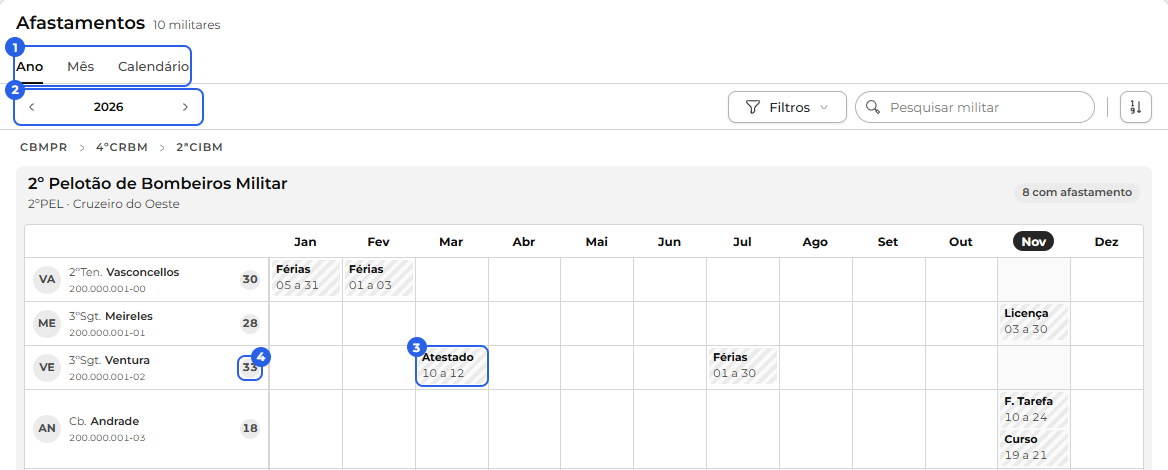
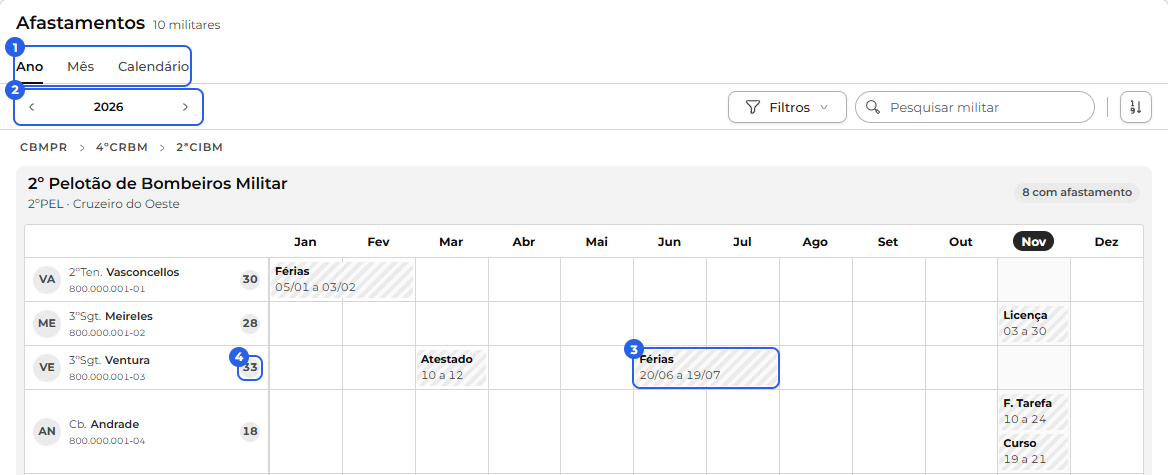
1

diff --git a/programador.html b/programador.html
@@ -2440,7 +2440,7 @@
                 <li><strong>Militares:</strong> linhas = militares, colunas = os dias do mês todo (do dia 1º ao último, desde 15/11/2026; as setas andam de mês em mês). Cada unidade escolhida é um bloco cinza com a linha-título em cima (nome completo + cidade, no cinza) e os militares numa tabela branca dentro; o título recolhe e abre os militares (por antiguidade). A linha do militar tem o avatar de iniciais (<code>--fundo-medio</code> + <code>--texto-suave</code>) + graduação + nome de guerra e, abaixo, o CPF (9px, a exceção da microetiqueta). Coluna do militar fixa à esquerda (244px, com o selo dos dias), cabeçalho dos dias fixo (hoje num círculo escuro, fim de semana sombreado). <strong>Sombra da coluna parada</strong> (15/11/2026): com a grade rolada para o lado, uma faixa de 16px (<code>::after</code>) colada à direita do canto, de cada linha do militar e do rótulo dos totais (o título da unidade fica sem, porque o nome dele passa da coluna), com <code>--sombra-coluna</code>; aparece com a classe <code>.escala-mil--rolada</code> (opacidade em 0.15s ease-out, some em 0.1s; parada no <code>prefers-reduced-motion</code>). Cada dia = <code>minmax(72px, 1fr)</code> (15/11/2026; antes, 60px), a largura do selo com o ícone e o horário numa linha só, dentro da célula; as colunas não têm número fixo (<code>grid-auto-columns</code> + <code>grid-auto-flow: column</code>), e o que não cabe rola para o lado dentro da grade. Camadas internas de 1 a 6. No celular, a coluna do militar tem 136px (o CPF numa linha só), sem o avatar, e cada dia, o mesmo <code>minmax(72px, 1fr)</code> do computador: os dias rolam para o lado, e o nome fica.</li>
                 <li>Célula do Militares: de serviço = chip de destaque (<code>.escala-mil-servico</code>, <code>--fundo-contraste</code> + <code>--texto-invertido</code>) com o ícone da origem (<code>.escala-mil-servico-origem</code>, 11px, em todo horário desde 15/11/2026: o mesmo do Mês, pela origem de cada horário; no trocado, o da troca; na página Sobreaviso, o telefone <code>.escala-mil-servico-sobreaviso</code> no mesmo lugar) + hora de início + ícone de seta (<code>icone-seta-direita-longa</code>) + fim, sem "h" (vários empilhados na disponibilidade quebrada), com recuo <code>0 4px</code> e vão de 2px; os números descem 1px (<code>margin-top: 2px</code>), e a tinta deles fica no meio do selo, na linha da seta e do ícone; afastado = chip listrado "FÉR" (<code>.escala-mil-afast</code>, <code>title</code> "Férias até DD/MM"); o dia de autorização de viagem (22/11/2026) = o mesmo chip, "VIA", sem as faixas e com a borda fina por dentro (<code>.escala-mil-afast--viagem</code>: <code>box-shadow: inset 0 0 0 1px var(--borda-forte)</code>; molde <code>#tpl-escala-mil-viagem</code>, só com o filtro dela); folga = vazia. Ao pé de cada unidade, a linha "Efetivo de serviço" (quantos de serviço por dia). A busca no canto direito filtra por nome e graduação (sem acento), esconde quem não casa e a unidade sem ninguém, revela as recolhidas e esconde os totais durante a busca; sem resultado, "Nenhum militar encontrado.". A Legenda do Militares mostra as amostras já com o ícone (Serviço, Extrajornada e Trocado) e o grupo <strong>Origem do serviço</strong>, o mesmo do painel do dia.</li>
                 <li><strong>Selo dos dias do Militares</strong> (15/11/2026; <code>.escala-mil-pessoa-dias</code>, números pelo <code>escalas-militares-dias.js</code>): à direita do nome, encostado (<code>margin-left: auto</code>), um círculo de 20px (<code>border-radius: 50%</code>, o mesmo do número do dia do cabeçalho), fundo <code>--fundo-medio</code> e número <code>--texto-suave</code> (o cinza do avatar, para não competir com os horários escuros), 11px em negrito com números da mesma largura; cabe "88" e mostra o 0. Diz em quantos dias do mês o militar tem um horário à vista que não é riscado. O botão Filtros vale nesta aba (escondido no Sobreaviso e nos Estágios): os horários e os afastamentos das situações desmarcadas somem, e o selo e a linha "Efetivo de serviço" contam só o que ficou. Na Legenda da aba, o grupo "Militar" usa a mesma classe na amostra.</li>
-                <li><strong>A grade dos Afastamentos</strong> (16/11/2026; <code>css/afastamentos.css</code>, por cima das peças do Militares, <code>escalas-militares.css</code>): a mesma linha do militar (coluna de 244px com as iniciais, o grau, o nome, o CPF e o selo dos dias), que abre o painel dele (<code>.afastamentos-pessoa</code>: hover <code>--fundo-suave</code>, escolhida <code>--fundo-medio</code>, achada pela busca em <code>--fundo-contraste</code> com o texto <code>--texto-invertido</code>). <strong>Ano:</strong> 12 colunas de no mínimo 72px; o cabeçalho preso abaixo do título do bloco; o nome do mês é um botão (<code>.afastamentos-mes-nome</code>, 12px, peso 700, <code>--raio-total</code>, hover <code>--fundo-medio</code>), o de hoje no escuro (<code>--fundo-contraste</code> e <code>--texto-invertido</code>), com a coluna em <code>--fundo-suave</code>. A célula (<code>.afastamentos-celula</code>, no mínimo 44px, 2px entre os selos) empilha os selos e só é clicável para quem administra o militar (<code>--clicavel</code>). O selo (<code>.afastamentos-selo</code>) é o listrado do afastado (faixas de 4px em <code>--fundo-suave</code> e <code>--fundo-medio</code>, a -45°), <code>--raio-pequeno</code>, com o nome (11px, peso 700, <code>--texto-forte</code>, corta com reticências) e os dias (11px, <code>--texto-suave</code>, números tabulares); o que não foi salvo leva a canaleta (<code>inset 2px</code> em <code>--texto-forte</code>). <strong>A autorização de viagem</strong> (22/11/2026; <code>.afastamentos-selo--viagem</code>): o mesmo selo <strong>sem o listrado</strong>, com a borda fina por dentro (<code>box-shadow: inset 0 0 0 1px var(--borda-forte)</code>; com a canaleta, as duas sombras juntas) e o ícone do mapa antes do nome (<code>.afastamentos-selo-icone</code>, 10px, <code>margin-right</code> 4px, um pixel abaixo da linha); no calendário, a linha <code>.linha-escalado--viagem</code> com o ícone à mostra (a do afastado esconde os ícones). Os <strong>Destinos</strong> (molde <code>#tpl-afastamento-destinos</code>, na caixa 2 e no painel): a lista <code>.afastamento-destinos</code> (coluna, gap 8px), cada destino numa linha <code>.afastamento-destino</code> (o campo <code>.campo-entrada</code> que estica e, ao lado, o X <code>.botao-discreto</code> com <code>icone-fechar</code> 14px, o mesmo das partes do horário; a lixeira fica só no alto, para a autorização inteira) e o <code>.botao</code> Adicionar destino que não estica (<code>.afastamento-destinos-adicionar</code>, 8px acima); sem destino, a borda vermelha do <code>.campo--erro</code> e a nota de sempre. <strong>Mês</strong> (<code>.afastamentos-grade--mes</code>): os dias em colunas de no mínimo 28px (o mês inteiro cabe a 1366 sem rolar), o dia do cabeçalho com a sigla em cima do número (molde <code>#tpl-escala-mil-dia</code>: hoje no círculo escuro, fim de semana sombreado). A barra (<code>.afastamentos-barra</code>, o mesmo selo) fica por cima das células, em <code>position: absolute</code> na grade da linha, da coluna do primeiro ao último dia (<code>grid-column: var(--barra-coluna) / span var(--barra-dias)</code>), com 36px de altura e 2px de folga de cada lado; a coluna do militar passa por cima dela ao rolar. Dois que se cruzam vão em faixas de 40px (<code>--barra-faixa</code>), e a linha cresce uma faixa por afastamento (<code>--faixas</code>); as quatro são dado da tela. A barra clicável ganha o contorno de 1px <code>--foco</code> no hover; a de 1 ou 2 dias (<code>--curta</code>) esconde o nome e os dias, que ficam na dica. <strong>Calendário:</strong> o <code>geral-calendario-mes</code> da Escala com <code>unidadesPorDia</code>; em cada dia, o bloquinho da unidade (<code>.escala-calendario-unidade.afastamentos-bloco</code>; para quem não administra, <code>--leitura</code>, sem o hover) com a linha de cada afastado (<code>.afastamentos-linha</code>, a <code>.linha-escalado--afastamento</code> da Escala com 20px): sem riscar e sem os ícones, o nome em <code>--texto</code> e o nome do afastamento à direita em <code>--texto-forte</code>; hover com o contorno de 1px <code>--foco</code>; a achada pela busca no escuro da Escala, sem o listrado; a que não foi salva com a canaleta.</li>
+                <li><strong>A grade dos Afastamentos</strong> (16/11/2026; a barra do Ano e a borda tracejada desde 22/11/2026; <code>css/afastamentos.css</code>, por cima das peças do Militares, <code>escalas-militares.css</code>): a mesma linha do militar (coluna de 244px com as iniciais, o grau, o nome, o CPF e o selo dos dias), que abre o painel dele (<code>.afastamentos-pessoa</code>: hover <code>--fundo-suave</code>, escolhida <code>--fundo-medio</code>, achada pela busca em <code>--fundo-contraste</code> com o texto <code>--texto-invertido</code>). <strong>Ano:</strong> 12 colunas de no mínimo 72px; o cabeçalho preso abaixo do título do bloco; o nome do mês é um botão (<code>.afastamentos-mes-nome</code>, 12px, peso 700, <code>--raio-total</code>, hover <code>--fundo-medio</code>), o de hoje no escuro (<code>--fundo-contraste</code> e <code>--texto-invertido</code>), com a coluna em <code>--fundo-suave</code>. A célula (<code>.afastamentos-celula</code>, 40px por faixa mais 4px, sem folga por dentro) fica embaixo das barras e só é clicável para quem administra o militar (<code>--clicavel</code>). Cada afastamento é uma <strong>barra</strong> (a mesma do Mês, abaixo) do primeiro ao último mês que ele toca no ano, na linha <code>.afastamentos-linha-ano</code>, com o nome e as datas inteiras (<code>textoDatas</code>: só a data de outro ano leva o ano, "23/11 a 01/01/2027"); o que fica todo num mês só mostra os dias, como no Mês ("10 a 12"). O selo (<code>.afastamentos-selo</code>) é o listrado do afastado (faixas de 4px em <code>--fundo-suave</code> e <code>--fundo-medio</code>, a -45°), <code>--raio-pequeno</code>, com o nome (11px, peso 700, <code>--texto-forte</code>, corta com reticências) e as datas (11px, <code>--texto-suave</code>, números tabulares; as que não cabem, como a de um mês só que vem de outro ano, cortam com reticências e ficam inteiras na dica); o que não foi salvo leva a <strong>borda tracejada</strong> da Escala, por dentro (<code>outline: 2px dashed var(--texto-forte)</code>, <code>outline-offset: -2px</code>; nunca no <code>::after</code>, que é o da dica), menos no hover e com a caixa aberta nele, que têm a borda deles. <strong>A autorização de viagem</strong> (22/11/2026; <code>.afastamentos-selo--viagem</code>): o mesmo selo <strong>sem o listrado</strong>, com a borda fina por dentro (<code>box-shadow: inset 0 0 0 1px var(--borda-forte)</code>; não salva, a borda fina e a tracejada juntas) e o ícone do mapa antes do nome (<code>.afastamentos-selo-icone</code>, 10px, <code>margin-right</code> 4px, um pixel abaixo da linha); no calendário, a linha <code>.linha-escalado--viagem</code> com o ícone à mostra (a do afastado esconde os ícones). Os <strong>Destinos</strong> (molde <code>#tpl-afastamento-destinos</code>, na caixa 2 e no painel): a lista <code>.afastamento-destinos</code> (coluna, gap 8px), cada destino numa linha <code>.afastamento-destino</code> (o campo <code>.campo-entrada</code> que estica e, ao lado, o X <code>.botao-discreto</code> com <code>icone-fechar</code> 14px, o mesmo das partes do horário; a lixeira fica só no alto, para a autorização inteira) e o <code>.botao</code> Adicionar destino que não estica (<code>.afastamento-destinos-adicionar</code>, 8px acima); sem destino, a borda vermelha do <code>.campo--erro</code> e a nota de sempre. <strong>Mês</strong> (<code>.afastamentos-grade--mes</code>): os dias em colunas de no mínimo 28px (o mês inteiro cabe a 1366 sem rolar), o dia do cabeçalho com a sigla em cima do número (molde <code>#tpl-escala-mil-dia</code>: hoje no círculo escuro, fim de semana sombreado). A barra (<code>.afastamentos-barra</code>, o mesmo selo, no Ano e no Mês, pelo <code>desenharBarras</code>; a linha <code>.afastamentos-linha-ano</code> ou <code>-mes</code> com <code>position: relative</code>) fica por cima das células, em <code>position: absolute</code> na grade da linha, da coluna do primeiro ao último dia ou mês (<code>grid-column: var(--barra-coluna) / span var(--barra-dias)</code>; no Ano, <code>--barra-dias</code> conta os meses), com 36px de altura e 2px de folga de cada lado; a coluna do militar passa por cima dela ao rolar. Dois que se cruzam (no Ano, os que tocam o mesmo mês) vão em faixas de 40px (<code>--barra-faixa</code>), e a linha cresce uma faixa por afastamento (<code>--faixas</code>); as quatro são dado da tela. A barra clicável ganha o contorno de 1px <code>--foco</code> no hover; no Mês, a de 1 ou 2 dias (<code>--curta</code>) esconde o nome e os dias, que ficam na dica. <strong>Calendário:</strong> o <code>geral-calendario-mes</code> da Escala com <code>unidadesPorDia</code>; em cada dia, o bloquinho da unidade (<code>.escala-calendario-unidade.afastamentos-bloco</code>; para quem não administra, <code>--leitura</code>, sem o hover) com a linha de cada afastado (<code>.afastamentos-linha</code>, a <code>.linha-escalado--afastamento</code> da Escala com 20px): sem riscar e sem os ícones, o nome em <code>--texto</code> e o nome do afastamento à direita em <code>--texto-forte</code>; hover com o contorno de 1px <code>--foco</code>; a achada pela busca no escuro da Escala, sem o listrado; a que não foi salva com a borda tracejada (a mesma do selo, fora do hover e da caixa aberta).</li>
                 <li><strong>Os grupos da célula</strong> (15/11/2026; <code>escalas-celula-grupos.js</code>, CSS em <code>escalas-mes.css</code>; molde <code>#tpl-escala-grupo</code>): cada grupo (Guarnição · Trocas · Pontual · Remanejados · Extrajornada · Estágio · Sobreaviso · Fora da escala) é uma <code>.escala-grupo</code> (<code>flex</code> em coluna, <code>data-grupo</code> com a chave) com as linhas da grade de sempre. Em cima de cada grupo, a <code>.escala-grupo-linha</code>: uma faixa de 9px (<code>padding 4px 0</code>) com o traço <code>1px dashed var(--borda)</code> no meio, que leva a dica do grupo de baixo (<code>data-dica</code>, os nomes em <code>mensagens.escala.grupoCelula</code>) e cujo clique é do dia, como o espaço vazio da célula. Só aparece depois de um grupo à vista (<code>.escala-grupo:has(...) ~ .escala-grupo &gt; .escala-grupo-linha</code>); o grupo sem linha à vista some (<code>:not(:has(...))</code>), também pelo filtro. <strong>O Fora da escala</strong> (<code>escalas-celula-fora.js</code>): o <code>icone-remover-usuario</code> no lugar do ícone da origem; o nome em <code>--erro</code> (<code>.linha-escalado--fora-vermelho</code>, devia estar na escala) ou em <code>--alerta</code> (<code>.linha-escalado--fora-aviso</code>, voltou de um afastamento há até 5 dias), os dois com "Fora da escala" no lugar do horário (o vermelho com a entrada marcada, "Entra em DD/MM"); para quem administra o dia, o clique no nome abre a caixa flutuante com Adicionar neste dia, Adicionar à guarnição e Abrir o painel do dia. No PDF das grades (<code>escalas-impressao-grade-celula.js</code>), a mesma linha tracejada (0,4pt) entre os grupos.</li>
                 <li><strong>O título de um posto na célula</strong> (19/11/2026; <code>.escala-mes-posto</code> em <code>escalas-mes.css</code>, molde <code>#tpl-escala-mes-posto</code> do <code>index.html</code>, montado pelo <code>RosterWork.escalasCelulaGrupos.tituloPosto</code>): o nome do posto em 11px, peso 600, caixa alta, <code>letter-spacing 0.44px</code>, <code>--texto-suave</code>, <code>padding 2px 0 2px 2px</code>, numa linha só, com as linhas do posto embaixo. Do segundo título em diante (<code>.escala-mes-posto ~ .escala-mes-posto</code>), a linha tracejada dos grupos em cima (<code>::before</code>, <code>1px dashed var(--borda)</code>, <code>margin 4px 0</code>) e o <code>padding-top</code> zerado. O Sem posto (N) com <code>.escala-mes-posto--sem</code>, em <code>--alerta</code>, por último. Usado na Op. Verão (os guarda-vidas por posto) e nos Estágios (os estagiários por viatura ou instalação); a Escala não tem.</li>
                 <li><strong>A dica do militar na grade</strong> (12/11/2026; <code>escalas-celula-dica.js</code>): o <code>data-dica</code> comum (<code>geral-dica</code>) no nome, com uma frase por linha (o porquê da linha na escala); a dica de várias linhas mede a própria altura para escolher se abre em cima ou embaixo. <strong>O motivo da folga</strong> (molde <code>#tpl-escala-folga-motivo</code>): o <code>.campo</code> comum, com o <code>.campo-rotulo</code> "Motivo (opcional)" e o <code>.campo-entrada</code> (<code>maxlength 120</code>), embaixo das respostas do banco de horas, com <code>padding-top 4px</code> (<code>.escala-folga-motivo</code>, em <code>escalas-painel-edicao.css</code>).</li>
@@ -2817,7 +2817,7 @@
               <span class="rotulo-secao">Afastamentos › A caixa e o painel do militar</span>
               <ul class="guia-regras">
                 <li><strong>A caixa</strong> (16/11/2026; <code>afastamentos-celula.js</code>): a <code>RosterWork.caixaFlutuante</code> da Escala (<code>escalas-celula-editar.css</code>), ao lado do que foi clicado; no celular, a folha de baixo. O menu (<code>.afastamentos-menu</code>, no mínimo 220px) usa os <code>.dropdown-item</code> com ícone; os que abrem a caixa 2 levam a seta à direita, o Remover é o <code>.dropdown-item--perigo</code> e o Abrir o painel do militar fica depois do <code>.dropdown-divisor</code>, com o ícone do painel à direita. O travado (<code>.afastamentos-menu--travado</code>, 256px) traz a frase e o Abrir o painel. A caixa do nome do mês tem o título do mês (<code>.afastamentos-menu-titulo</code>; no celular some, porque a folha já tem título). A caixa 2 (<code>.afastamentos-cartao</code>) traz as perguntas (ver Data e horário).</li>
-                <li><strong>O painel do militar</strong> (<code>afastamentos-painel.js</code>): o <code>geral-painel</code> sem abas; o título é o posto e o nome, com a unidade no <code>tituloExtra</code> e o nome completo embaixo; o ano no subcabeçalho (o mesmo seletor do ano da barra). O Resumo do ano é o bloco de leitura da ficha (<code>.grupo-caixa</code> com <code>.ficha-linha</code>). Para quem administra o militar ativo, cada afastamento é uma caixa (<code>#tpl-ficha-afastamento</code>: <code>.grupo-caixa.ficha-periodo</code>, a situação no <code>.rotulo-secao</code> e a lixeira <code>.botao-discreto</code> à direita; as perguntas em <code>.ficha-afastamento-campos</code>, 8px entre elas; a que não foi salva com a canaleta, <code>.ficha-periodo--mudou</code>), e o Adicionar afastamento é um botão com texto no fim (<code>.ficha-acoes-fim</code>, não estica). Quem só lê vê uma <code>.ficha-linha</code> por afastamento.</li>
+                <li><strong>O painel do militar</strong> (<code>afastamentos-painel.js</code>): o <code>geral-painel</code> sem abas; o título é o posto e o nome, com a unidade no <code>tituloExtra</code> e o nome completo embaixo; o ano no subcabeçalho (o mesmo seletor do ano da barra). O Resumo do ano é o bloco de leitura da ficha (<code>.grupo-caixa</code> com <code>.ficha-linha</code>). Para quem administra o militar ativo, cada afastamento é uma caixa (<code>#tpl-ficha-afastamento</code>: <code>.grupo-caixa.ficha-periodo</code>, a situação no <code>.rotulo-secao</code> e a lixeira <code>.botao-discreto</code> à direita; as perguntas em <code>.ficha-afastamento-campos</code>, 8px entre elas; a que não foi salva com a borda tracejada por dentro, sempre à vista, <code>.ficha-periodo--mudou</code>: <code>outline: 2px dashed var(--texto-forte)</code>, <code>outline-offset: -2px</code>), e o Adicionar afastamento é um botão com texto no fim (<code>.ficha-acoes-fim</code>, não estica). Quem só lê vê uma <code>.ficha-linha</code> por afastamento.</li>
               </ul>
             </div>
           </section>

diff --git a/manual.html b/manual.html
@@ -593,7 +593,7 @@
                   </ol>
                 </figcaption>
               </figure>
-              <p><strong>Falta de gente.</strong> A última opção dos <strong>Filtros</strong>, <strong>Incluir falta de gente</strong>, começa desmarcada e não esconde ninguém: marcada, nos modos Mês e Colunas, embaixo do gráfico de cada unidade aparece uma casinha para cada horário de 6 horas (08h, 14h, 20h e 02h). O número vermelho diz quantos militares ainda faltam naquele horário; "1 de 2" quer dizer que faltavam 2 e as extras cobriram 1. O certo diz que não falta ninguém, e o "+1" pequeno no canto, que há uma extra a mais do que faltava. Basta faltar gente numa parte do horário para a casinha ficar vermelha. Com o mouse em cima da casinha, a dica explica e, nesse caso, diz as horas exatas, como "Das 02h às 08h, falta 1, só das 07h às 08h"; o gráfico, com uma barra por hora, também mostra. Só conta a falta para o mínimo: a falta para o ideal não entra na linha, e a unidade sem falta e sem extra no dia fica sem ela. A linha não sai no <strong>Imprimir</strong>.</p>
+              <p><strong>Falta de gente.</strong> A última opção dos <strong>Filtros</strong>, <strong>Incluir falta de gente</strong>, começa desmarcada e não esconde ninguém: marcada, nos modos Mês e Colunas, embaixo do gráfico de cada unidade aparece uma casinha para cada horário de 6 horas (08h, 14h, 20h e 02h). O número vermelho diz quantos militares ainda faltam naquele horário; "1 de 2" quer dizer que faltavam 2 e as extras cobriram 1. O certo diz que não falta ninguém, e o "+1" pequeno no canto, que há uma extra a mais do que faltava. Basta faltar gente numa parte do horário para a casinha ficar vermelha. Com o mouse em cima da casinha, a dica explica e, nesse caso, diz as horas exatas, como "Das 02h às 08h, falta 1, só das 07h às 08h"; o gráfico, com uma barra por hora, também mostra. Só conta a falta para o mínimo: a falta para o ideal não entra na linha, e a unidade sem falta e sem extra no dia fica sem ela. No dia com borda amarela, a linha mostra a versão anterior, como o gráfico, e se ajusta junto com o dia. A linha não sai no <strong>Imprimir</strong>.</p>
               <figure class="manual-figura manual-figura--cheia">
                 <img src="manual/imagens/escala-falta-de-gente.png" width="828" height="385" alt="Dois dias da Agenda com a Falta de gente marcada: um horário em que ainda falta 1 militar (1), um em que faltavam 2 e as extras cobriram 1 (2), um em que não falta ninguém (3) e um com uma extra a mais do que faltava (4)." />
                 <figcaption>
@@ -788,7 +788,7 @@
                   </ol>
                 </figcaption>
               </figure>
-              <p><strong>Dias com borda amarela.</strong> Logo depois de uma mudança na escala, alguns dias levam um instante para se atualizar. Eles aparecem com uma <strong>borda amarela</strong>, ainda com a versão anterior, e uma nota amarela avisa no alto da página. O dia que você acabou de salvar não fica amarelo: ele já aparece como ficou. Não é erro, e você não precisa fazer nada: em até uns 2 minutos os dias se ajustam sozinhos e a borda some. Ao clicar num desses dias, o painel abre na hora ou, se o dia ainda vai ser refeito, mostra "Atualizando este dia. Ele abre sozinho assim que ficar pronto."; passando de 30 segundos, o dia abre só para consulta, até ficar pronto. A Legenda também explica a borda.</p>
+              <p><strong>Dias com borda amarela.</strong> Logo depois de uma mudança na escala, alguns dias levam um instante para se atualizar. Eles aparecem com uma <strong>borda amarela</strong>, ainda com a versão anterior, e uma nota amarela avisa no alto da página. O dia que você acabou de salvar não fica amarelo: ele já aparece como ficou. Não é erro, e você não precisa fazer nada: em poucos minutos os dias se ajustam sozinhos e a borda some. Depois de uma mudança grande, como vários afastamentos de uma vez, pode levar mais. Ao clicar num desses dias, o painel abre na hora ou, se o dia ainda vai ser refeito, mostra "Atualizando este dia. Ele abre sozinho assim que ficar pronto."; passando de 30 segundos, o dia abre só para consulta, até ficar pronto. A Legenda também explica a borda.</p>
               <figure class="manual-figura">
                 <img src="manual/imagens/escala-legenda-grade.png" width="509" height="498" alt="A caixa da Legenda aberta pelo botão no alto da página Escala (1), com os grupos Cobertura e Na célula, que inclui o militar afastado e a borda amarela (2), e, abaixo, os grupos de origem, nome riscado, função, militar e observações." />
                 <figcaption>
@@ -2662,14 +2662,14 @@
               <p>Nos dias do afastamento, o militar sai dos serviços. Conforme o afastamento, ele sai também das trocas, da extrajornada e do sobreaviso: as férias tiram de tudo; a Op. Verão, a da unidade, deixa trocar, tirar extra e ficar de sobreaviso; o Litoral, a Op. Verão no litoral, tira de tudo; e a F. Tarefa, em geral, deixa trocar e tirar extra. Os dias da praia ficam na página Op. Verão (veja <strong>A Operação Verão</strong>, na Escala).</p>
               <p><strong>A dica.</strong> Parando o mouse num afastamento (no celular, segurando o dedo), a dica mostra o nome e as datas e, embaixo, o que ele tira nesses dias, com a caixa marcada no que ele sai: <strong>Sai da escala</strong>, <strong>Sai da guarnição</strong>, <strong>Sai das trocas e do serviço avulso</strong>, <strong>Sai da extrajornada</strong> e <strong>Sai do sobreaviso</strong>. Na Escala, a dica do militar afastado mostra o mesmo.</p>
               <p><strong>A autorização de viagem.</strong> Não é um afastamento: é a autorização para o militar viajar nos dias de folga. Nesses dias ele só sai do sobreaviso; continua na escala, nas trocas e na extrajornada, e os dias não contam como afastado. Na grade, ela aparece com o nome <strong>Viagem</strong>, sem o listrado e com o ícone do mapa, e a dica diz as datas e os destinos. Na Escala, ela aparece com o filtro <strong>Incluir autorizações de viagem</strong>.</p>
-              <p><strong>Ano.</strong> Embaixo do título ficam as abas <strong>Ano</strong>, <strong>Mês</strong> e <strong>Calendário</strong> (1). No Ano e no Mês, as unidades escolhidas no seletor aparecem na árvore de unidades, e cada uma traz o seu efetivo numa grade, um militar por linha. No Ano, cada mês é uma coluna, com o mês de hoje em destaque, e cada afastamento aparece num selo listrado no mês dele, com o nome e os dias daquele mês (3); o que passa de um mês para o outro aparece nos dois. Ao lado do nome do militar, o número diz quantos dias ele ficou afastado no ano (4). Um clique no nome do mês, no alto da grade, abre <strong>Ver o mês</strong> e <strong>Ver o calendário</strong>, que levam àquele mês.</p>
+              <p><strong>Ano.</strong> Embaixo do título ficam as abas <strong>Ano</strong>, <strong>Mês</strong> e <strong>Calendário</strong> (1). No Ano e no Mês, as unidades escolhidas no seletor aparecem na árvore de unidades, e cada uma traz o seu efetivo numa grade, um militar por linha. No Ano, cada mês é uma coluna, com o mês de hoje em destaque, e cada afastamento aparece numa barra listrada, do primeiro ao último mês dele, com o nome e as datas (3); o que fica todo num mês só mostra só os dias. A data de outro ano leva o ano, e dois afastamentos no mesmo mês ficam um embaixo do outro. Ao lado do nome do militar, o número diz quantos dias ele ficou afastado no ano (4). Um clique no nome do mês, no alto da grade, abre <strong>Ver o mês</strong> e <strong>Ver o calendário</strong>, que levam àquele mês.</p>
               <figure class="manual-figura manual-figura--cheia">
-                <img src="manual/imagens/afastamentos-ano.png" width="1168" height="470" alt="A aba Ano: as abas Ano, Mês e Calendário (1), o ano na barra (2), o atestado de março do 3ºSgt. Ventura (3) e os dias que ele ficou afastado no ano (4)." />
+                <img src="manual/imagens/afastamentos-ano.png" width="1168" height="475" alt="A aba Ano: as abas Ano, Mês e Calendário (1), o ano na barra (2), as férias de 20/06 a 19/07 do 3ºSgt. Ventura numa barra de junho a julho (3) e os dias que ele ficou afastado no ano (4)." />
                 <figcaption>
                   <ol class="manual-chamadas">
                     <li>As abas Ano, Mês e Calendário</li>
                     <li>O ano</li>
-                    <li>Um afastamento no mês</li>
+                    <li>Um afastamento, do primeiro ao último mês</li>
                     <li>Os dias afastado no ano</li>
                   </ol>
                 </figcaption>
@@ -2704,7 +2704,7 @@
                 <h3 id="registrar-afastamento">Lançar e mudar um afastamento <span class="manual-selo-admin">Apenas administradores</span></h3>
                 <p>Você lança e muda os afastamentos dos militares da sua área ali mesmo, na página, numa caixa que abre ao lado do que foi clicado, a mesma da Escala. Um clique num afastamento (1) abre as ações dele (2): <strong>Mudar o período</strong>, <strong>Mudar o afastamento</strong> e <strong>Mudar o que ele sai</strong> abrem as perguntas numa segunda caixa, ao lado (3); <strong>Remover o afastamento</strong> tira o afastamento; <strong>Abrir o painel do militar</strong> abre o painel dele.</p>
                 <figure class="manual-figura manual-figura--larga">
-                  <img src="manual/imagens/afastamentos-caixa.png" width="662" height="237" alt="A caixa de um afastamento no Ano: a Op. Verão clicada (1), as ações (2) e a pergunta Período na segunda caixa, com os dias embaixo das datas (3)." />
+                  <img src="manual/imagens/afastamentos-caixa.png" width="690" height="237" alt="A caixa de um afastamento no Ano: as férias de 23/11 a 22/12 clicadas (1), as ações (2) e a pergunta Período na segunda caixa, com os dias embaixo das datas (3)." />
                   <figcaption>
                     <ol class="manual-chamadas">
                       <li>O afastamento clicado</li>
@@ -2724,7 +2724,7 @@
                 <p>As férias não perguntam o que ele deixa nesses dias: o militar sai de tudo. Elas perguntam só a guarnição, e o <strong>Mudar o que ele sai</strong> delas traz só essa pergunta.</p>
                 <p><strong>A autorização de viagem</strong> (1) pergunta só o <strong>Período</strong> (2) e os <strong>Destinos</strong> (3): um campo por destino, com o <strong>X</strong> ao lado, que tira o destino (com um só, ele só limpa o campo), e o <strong>Adicionar destino</strong>, que põe mais um. Sem nenhum destino, a caixa não fecha: o campo fica com a borda vermelha e a frase "Escreva pelo menos um destino.". Na grade, ela fica sem o listrado, com o ícone do mapa (4); um clique nela abre <strong>Mudar o período</strong>, <strong>Mudar os destinos</strong>, <strong>Remover a autorização de viagem</strong> e <strong>Abrir o painel do militar</strong>.</p>
                 <figure class="manual-figura manual-figura--larga">
-                  <img src="manual/imagens/afastamentos-viagem.png" width="715" height="302" alt="A caixa da célula vazia do Cb. Andrade com o Adicionar autorização de viagem escolhido (1), o período de 28 a 29/11 (2), os destinos Londrina e Maringá, cada um com o X, e o Adicionar destino (3), e a viagem de 23 a 24/12 dele na grade, sem o listrado (4)." />
+                  <img src="manual/imagens/afastamentos-viagem.png" width="716" height="302" alt="A caixa da célula vazia do Cb. Andrade com o Adicionar autorização de viagem escolhido (1), o período de 28 a 29/11 (2), os destinos Londrina e Maringá, cada um com o X, e o Adicionar destino (3), e a viagem de 23 a 24/12 dele na grade, sem o listrado (4)." />
                   <figcaption>
                     <ol class="manual-chamadas">
                       <li>Adicionar autorização de viagem</li>
@@ -2747,7 +2747,7 @@
                   </figcaption>
                 </figure>
                 <p><strong>O que já passou fica como está.</strong> Dá para mudar até uma semana para trás, como em todo o sistema. O afastamento que terminou antes disso abre só com o aviso e o botão do painel. O que começou antes disso muda só o fim e o nome, e não pode ser removido.</p>
-                <p><strong>Ao salvar.</strong> O que você responde, na caixa e no painel, de um ou mais militares, fica guardado até o Salvar, e a grade já mostra como vai ficar. O rodapé aparece com a primeira alteração: <strong>Desfazer</strong> e <strong>Refazer</strong> (também pelo Ctrl+Z e pelo Ctrl+Y), <strong>Cancelar</strong>, que joga fora o que não foi salvo, e <strong>Salvar</strong>. O Salvar fica desligado enquanto algum afastamento tem problema (sem nome, sem as duas datas, com o fim antes do início, cruzando com outro do mesmo nome ou, na autorização de viagem, sem destino); a nota embaixo das perguntas diz qual, e o rodapé mostra o motivo em vermelho, com o nome do militar na frente, no lugar de "alterações não salvas". Ao salvar, o sistema grava todos de uma vez e refaz a escala desde o primeiro dia que mudou (a autorização de viagem não mexe na escala). Enquanto isso, a caixa <strong>Salvando os afastamentos</strong> diz o que está fazendo; quando a mudança não mexe na escala (só o nome, por exemplo), o Salvar mostra os três pontinhos e a caixa só aparece se demorar. Antes, se nos dias novos o militar já tem uma troca, uma extrajornada ou uma folga, ou se ele vai sair da escala, o sistema mostra a lista, por militar, e pergunta se você continua. Depois, o resumo abre, e a mudança fica no Histórico e nas Alterações na ficha do militar.</p>
+                <p><strong>Ao salvar.</strong> O que você responde, na caixa e no painel, de um ou mais militares, fica guardado até o Salvar, e a grade já mostra como vai ficar, com a borda tracejada no que ainda não foi salvo. O rodapé aparece com a primeira alteração: <strong>Desfazer</strong> e <strong>Refazer</strong> (também pelo Ctrl+Z e pelo Ctrl+Y), <strong>Cancelar</strong>, que joga fora o que não foi salvo, e <strong>Salvar</strong>. O Salvar fica desligado enquanto algum afastamento tem problema (sem nome, sem as duas datas, com o fim antes do início, cruzando com outro do mesmo nome ou, na autorização de viagem, sem destino); a nota embaixo das perguntas diz qual, e o rodapé mostra o motivo em vermelho, com o nome do militar na frente, no lugar de "alterações não salvas". Ao salvar, o sistema grava todos de uma vez e refaz a escala desde o primeiro dia que mudou (a autorização de viagem não mexe na escala). Enquanto isso, a caixa <strong>Salvando os afastamentos</strong> diz o que está fazendo; quando a mudança não mexe na escala (só o nome, por exemplo), o Salvar mostra os três pontinhos e a caixa só aparece se demorar. Antes, se nos dias novos o militar já tem uma troca, uma extrajornada ou uma folga, ou se ele vai sair da escala, o sistema mostra a lista, por militar, e pergunta se você continua. Depois, o resumo abre, e a mudança fica no Histórico e nas Alterações na ficha do militar.</p>
                 <p><strong>Quem sai da guarnição volta pela Escala.</strong> Com <strong>Sai da guarnição</strong>, o militar sai da escala a partir do primeiro dia do afastamento, e as trocas e folgas dele dali em diante são canceladas, como quando ele é tirado da guarnição na Escala; as extras dele continuam. No fim, ele não volta sozinho: você o põe de novo numa guarnição pela aba <strong>Guarnições</strong> do painel do dia, na Escala, e a Escala lembra a volta numa nota amarela. Por isso, encurtar ou apagar esse afastamento não devolve o militar à escala: antes de salvar, o sistema avisa que ele continua fora, e os outros administradores da área recebem o aviso <strong>Militar fora da escala</strong> no sino.</p>
               </div>
             </section>

diff --git a/js/escalas-falta.js b/js/escalas-falta.js
@@ -8,9 +8,13 @@
    banco (escala_falta_mes: a falta sem as extras que já estão na
    escala e com elas), lidos só com a opção marcada, numa leitura só
    para as unidades e os dias da tela, e guardados aqui; a célula
-   refeita com o gráfico diferente (a escala mudou) lê de novo. A grade
-   sai como sempre e a linha chega logo depois. Sem a leitura (o banco
-   falhou), a linha não aparece.
+   refeita com o gráfico diferente (a escala mudou) lê de novo. Como a
+   grade, o dia que mudou e ainda não foi refeito vem da cópia de antes
+   (a célula está com a borda amarela) e é lido de novo quando a cópia
+   fica pronta; o dia que o Salvar acabou de gravar (certo na tela) vem
+   do dado real, numa leitura à parte. A grade sai como sempre e a
+   linha chega logo depois. Sem a leitura (o banco falhou), a linha não
+   aparece.
    Não cria HTML (o componente clona o molde) nem escreve estilo.
    RosterWork.escalasFalta.
    ============================================================ */
@@ -70,12 +74,22 @@
     setTimeout(ler, 0);
   }
 
-  /* lê a conta das células que esperam: as unidades delas, do primeiro ao último dia */
+  /* lê a conta das células que esperam: as dos dias certos na tela (o Salvar acabou de gravar) com o dado real, as outras
+     aceitando a cópia de antes, como a grade */
   function ler() {
     agendada = false;
     var marcas = pendentes, chaves = Object.keys(marcas);
     pendentes = {};
     if (!chaves.length || !ligada()) return;
+    var at = RW.escalaAtualizando;
+    var certas = chaves.filter(function (k) { var p = k.split('|'); return !!(at && at.certo(p[0], p[1])); });
+    lerGrupo(chaves.filter(function (k) { return certas.indexOf(k) < 0; }), marcas, true);
+    lerGrupo(certas, marcas, false);
+  }
+
+  /* uma leitura: as unidades das células, do primeiro ao último dia */
+  function lerGrupo(chaves, marcas, copia) {
+    if (!chaves.length) return;
     var unidades = [], ini = null, fim = null;
     chaves.forEach(function (k) {
       var p = k.split('|'), uid = +p[0], dia = p[1];
@@ -83,13 +97,16 @@
       if (!ini || dia < ini) ini = dia;
       if (!fim || dia > fim) fim = dia;
     });
-    RW.rpc('escala_falta_mes', { p_unidade_ids: unidades, p_inicio: ini, p_fim: fim }).then(function (r) {
+    var corpo = { p_unidade_ids: unidades, p_inicio: ini, p_fim: fim };
+    /* o modo treino não pede a cópia (escalas-dados.js › carregar) */
+    if (copia && !(RW.treino && RW.treino.ligado())) corpo.p_aceita_copia = true;
+    RW.rpc('escala_falta_mes', corpo).then(function (r) {
       if (!r) { console.error('[Escala] Falta de gente: a leitura escala_falta_mes não veio'); return; }
       chaves.forEach(function (k) {
         var p = k.split('|');
         dados[k] = { sem: ((r.sem || {})[p[0]] || {})[p[1]] || {}, com: ((r.com || {})[p[0]] || {})[p[1]] || {}, marca: marcas[k] };
       });
-      Array.prototype.forEach.call(celulas(), function (cel) { if (marcas[chave(cel)] !== undefined) desenhar(cel); });
+      Array.prototype.forEach.call(celulas(), function (cel) { if (chaves.indexOf(chave(cel)) >= 0) desenhar(cel); });
     }).catch(function (e) { console.error('[Escala] Falta de gente: a leitura escala_falta_mes falhou', e); });
   }
 
@@ -111,6 +128,8 @@
   RW.escalasFalta = {
     decorar: decorar,
     atualizar: atualizar,
+    /* a cópia dos dias ficou pronta (escalas-atualizando.js): a célula refeita lê a conta de novo. chaves = ['unidade|dia'] */
+    esquecer: function (chaves) { (chaves || []).forEach(function (k) { delete dados[k]; }); },
     /* a página é nova (a visita): esquece a conta guardada e confere a opção */
     reiniciar: function () { dados = {}; pendentes = {}; atualizar(); }
   };

diff --git a/js/escalas-atualizando.js b/js/escalas-atualizando.js
@@ -11,7 +11,7 @@
    gravar fica certo na tela, sem a borda amarela, enquanto a cópia
    dele é refeita (salvou e certos).
    API: RosterWork.escalaAtualizando.{ ligar, conferir, receberGrade,
-   salvou, certos, atualizarCelula, pendente, naFilaNoDia, soCopia,
+   salvou, certos, atualizarCelula, pendente, certo, naFilaNoDia, soCopia,
    esperar, corrigir, aoImprimir, conferirImpressao }
    ============================================================ */
 (function () {
@@ -43,6 +43,9 @@
     var k = chave(unidadeId, iso);
     return ativa() && dias[k] === false && !corrigidos[k];
   }
+
+  /* o dia que o Salvar acabou de gravar fica certo na tela, com o dado real (a Falta de gente lê igual) */
+  function certo(unidadeId, iso) { return ativa() && !!corrigidos[chave(unidadeId, iso)]; }
 
   function naFilaNoDia(iso) {
     return ativa() && Object.keys(dias).some(function (k) { return dias[k] && k.split('|')[1] === iso; });
@@ -160,6 +163,8 @@
     var filaAcabou = tinhaFila && !temFila();
     /* a cópia dos dias salvos ficou pronta: eles voltam a ser lidos dela (escalas-dados.js) */
     if (prontos.length && RosterWork.escalasDados && RosterWork.escalasDados.esquecerCertos) RosterWork.escalasDados.esquecerCertos(prontos);
+    /* e a Falta de gente desses dias, que veio da cópia de antes, é lida de novo com a célula refeita */
+    if (prontos.length && RosterWork.escalasFalta) RosterWork.escalasFalta.esquecer(prontos);
     if (prontos.length || filaAcabou) redesenharProntos(prontos, filaAcabou);
     relerGrade();
     marcar();
@@ -307,7 +312,7 @@
 
   window.RosterWork.escalaAtualizando = {
     ligar: ligar, conferir: conferir, receberGrade: receberGrade, salvou: salvou, certos: certos, atualizarCelula: atualizarCelula,
-    pendente: pendente, naFilaNoDia: naFilaNoDia, soCopia: soCopia, esperar: esperar, corrigir: corrigir,
+    pendente: pendente, certo: certo, naFilaNoDia: naFilaNoDia, soCopia: soCopia, esperar: esperar, corrigir: corrigir,
     aoImprimir: aoImprimir, conferirImpressao: conferirImpressao
   };
 })();

diff --git a/js/afastamentos-grade.js b/js/afastamentos-grade.js
@@ -7,7 +7,8 @@
    No Ano, os meses no lugar dos dias (o de hoje escuro; o nome abre a
    caixa do mês) e cada afastamento numa barra contínua, do primeiro ao
    último mês que ele toca no ano, com o nome e as datas inteiras ("Férias
-   23/11 a 01/01/2027": só a data de outro ano leva o ano). No Mês, os
+   23/11 a 01/01/2027": só a data de outro ano leva o ano; o que fica
+   todo num mês só, os dias: "Atestado 10 a 12"). No Mês, os
    dias (a sigla do dia da semana e o número; hoje no círculo escuro;
    sábado e domingo sombreados) e cada afastamento numa barra contínua,
    do primeiro ao último dia dele no mês, com o nome e os dias (o de 1
@@ -198,14 +199,16 @@
         }
         linha.appendChild(celula);
       }
-      /* uma barra por afastamento, do primeiro ao último mês que ele toca no ano (data-mes = o primeiro, de 0 a 11) */
+      /* uma barra por afastamento, do primeiro ao último mês que ele toca no ano (data-mes = o primeiro, de 0 a 11); o
+         que fica todo num mês só mostra os dias, como no Mês (o mês é a coluna) */
       var barras = [];
       afs.forEach(function (af) {
         var de = af.inicio > ini ? af.inicio : ini, ate = af.fim < fim ? af.fim : fim;
         if (ate < de) return;
         var mesDe = Number(de.slice(5, 7));
-        barras.push({ af: af, de: mesDe, ate: Number(ate.slice(5, 7)), datas: textoDatas(af.inicio, af.fim, c.ano),
-          atributo: 'data-mes', valor: String(mesDe - 1) });
+        var datas = af.inicio.slice(0, 7) === af.fim.slice(0, 7)
+          ? M().diasDoMes(af.inicio.slice(8, 10), af.fim.slice(8, 10)) : textoDatas(af.inicio, af.fim, c.ano);
+        barras.push({ af: af, de: mesDe, ate: Number(ate.slice(5, 7)), datas: datas, atributo: 'data-mes', valor: String(mesDe - 1) });
       });
       desenharBarras(linha, barras, p, c, false);
       grade.appendChild(linha);

diff --git a/css/afastamentos.css b/css/afastamentos.css
@@ -142,11 +142,15 @@
   text-overflow: ellipsis;
 }
 
+/* as datas que não cabem (no Ano, a barra de um mês só do que vem de outro ano) cortam com reticências; inteiras na
+   dica */
 .afastamentos-selo-dias {
   font-size: 11px;
   color: var(--texto-suave);
   font-variant-numeric: tabular-nums;
   white-space: nowrap;
+  overflow: hidden;
+  text-overflow: ellipsis;
 }
 
 /* o que ainda não foi salvo: a borda tracejada da Escala, por dentro (some no hover e com a caixa aberta nele, que têm
